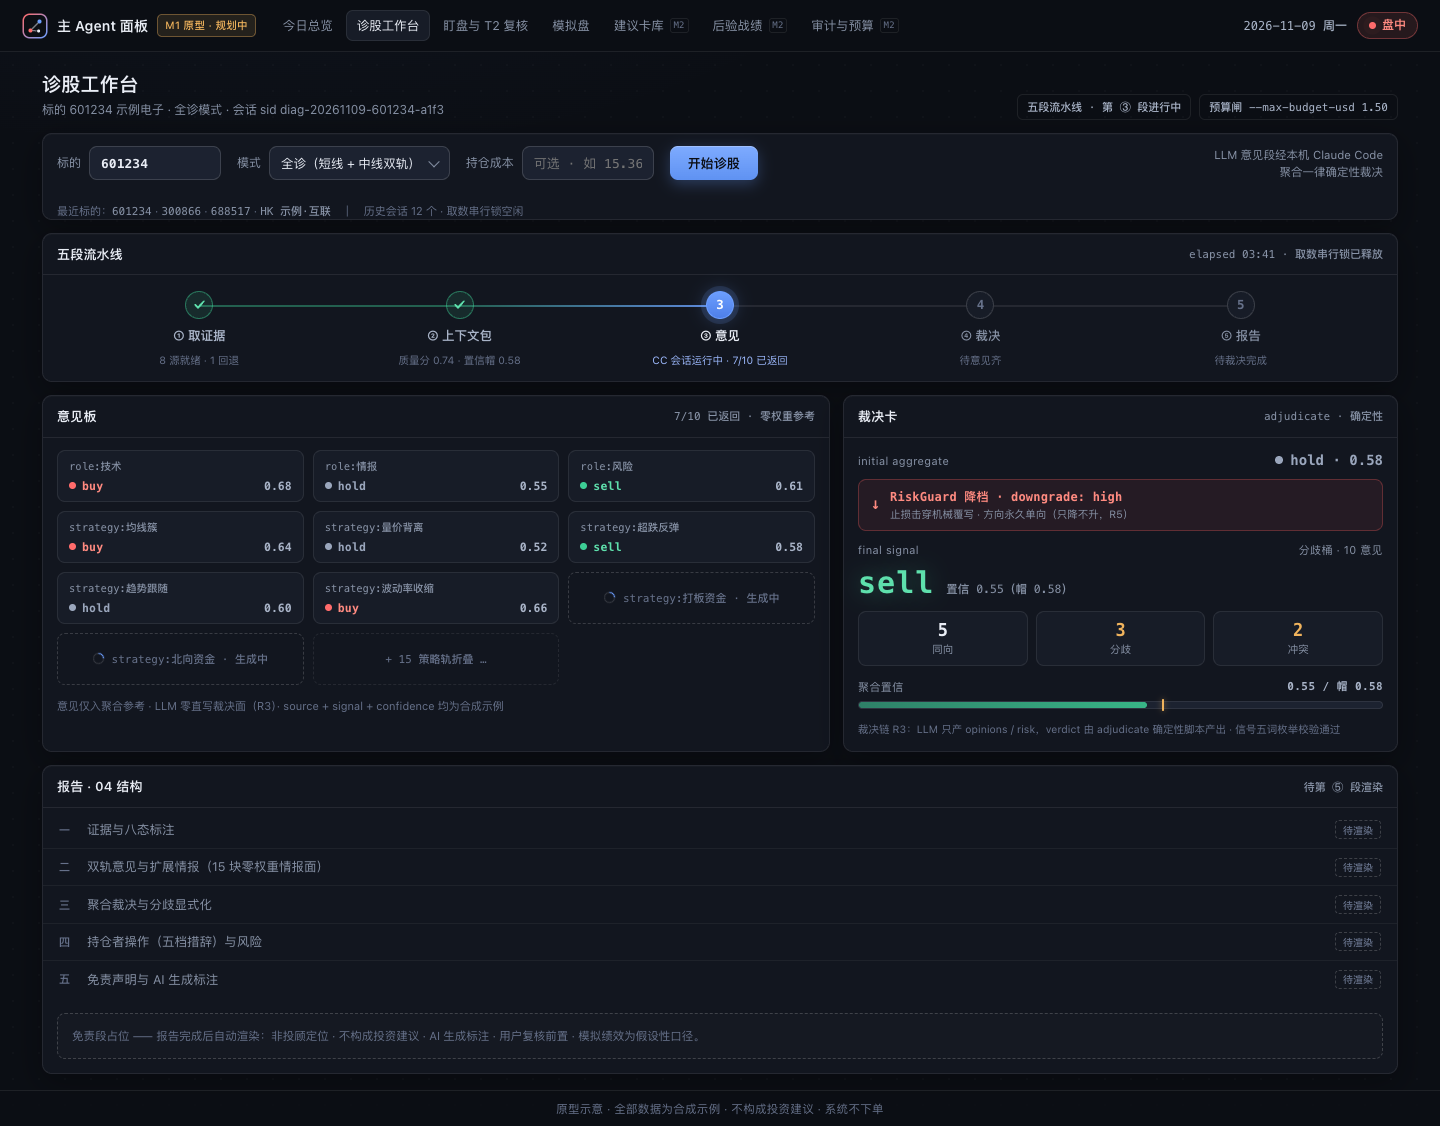
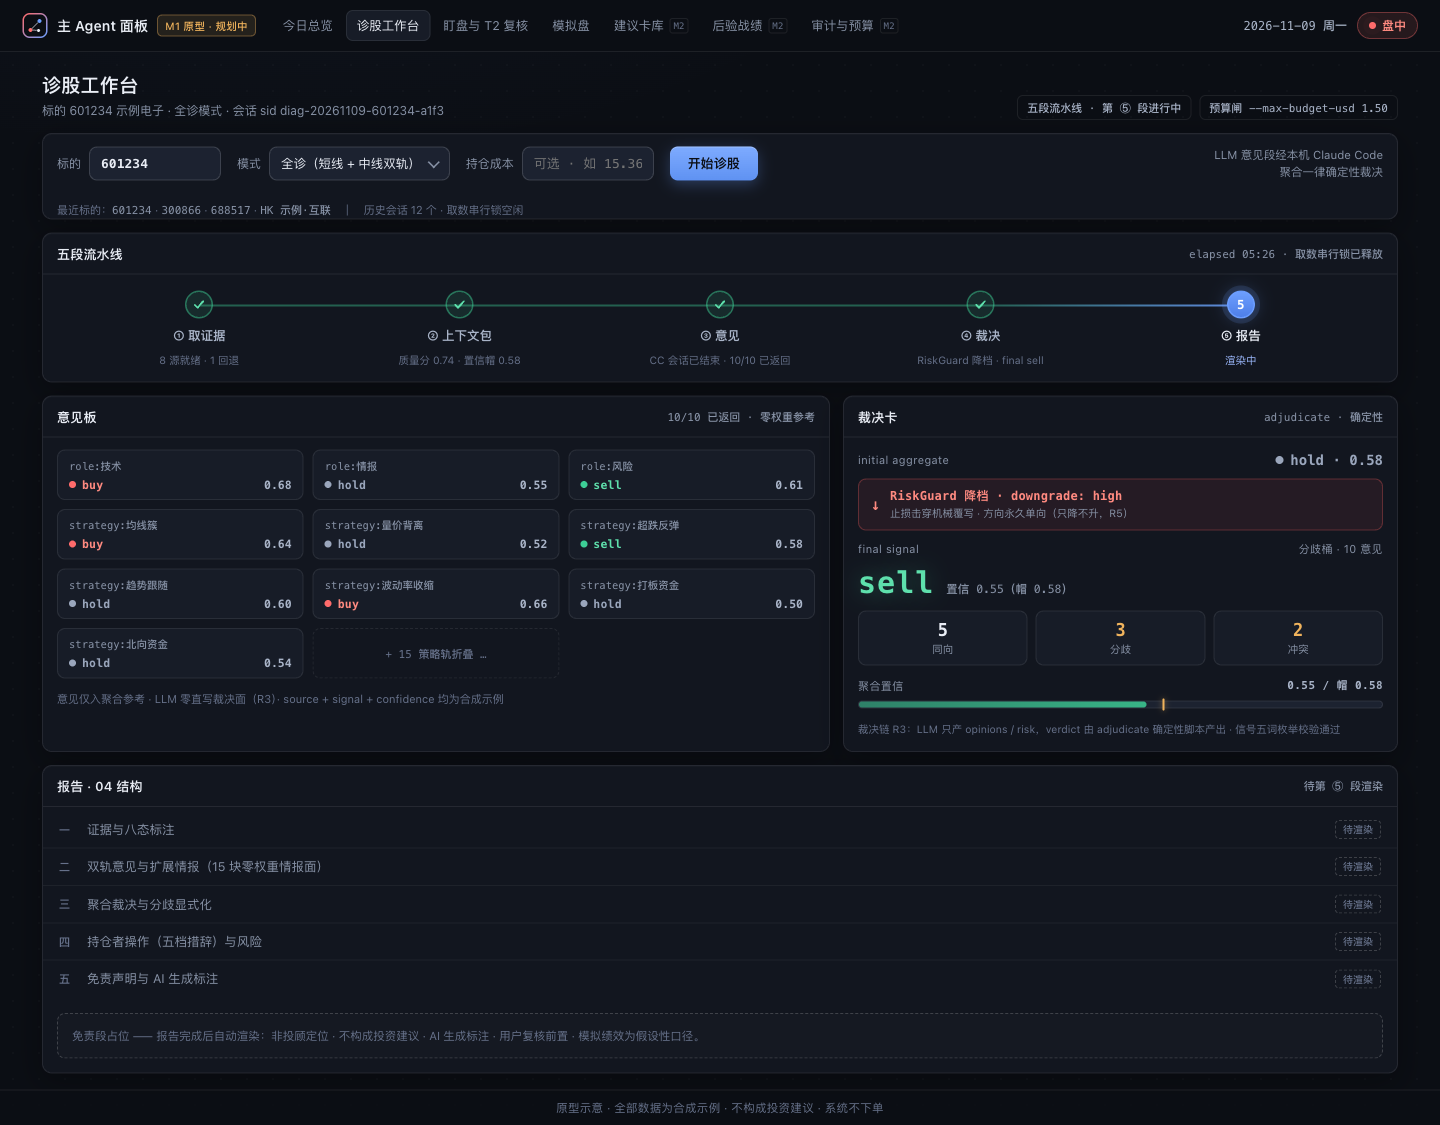
fix(Prototypes): 原型口径自洽：买入滑点加向、HK T3 状态一致、总览改盘中态、诊股推进至第 ⑤ 段 0.0.28;
paper：HK T3 确认价改为触发价 + 滑点（356.60），持仓表 T3 置 pending 与待确认队列一致；overview：页面态改盘中 10:08，事件时间移至 09:15 之后，昨日降档卡改为待收盘复核；diagnosis：流水线推进至 ⑤ 渲染中、意见板 10/10（同向 5/分歧 3/冲突 2 与意见分布吻合）；三张 PNG 以 1440 视口同口径重截；

🤖 Generated with [Claude Code](https://github.com/claude), [CodeX](https://openai.com), [Gemini](https://github.com/apps/gemini-code-assist)

diff --git a/docs/prototypes/main-agent/overview.html b/docs/prototypes/main-agent/overview.html
@@ -3,7 +3,7 @@
 <head>
 <meta charset="UTF-8">
 <meta name="viewport" content="width=1440">
-<title>主 Agent 面板 · 今日总览（盘前）</title>
+<title>主 Agent 面板 · 今日总览（盘中）</title>
 <style>
 *{margin:0;padding:0;box-sizing:border-box}
 :root{
@@ -36,9 +36,10 @@ body{min-height:100vh;display:flex;flex-direction:column;background-color:var(--
 .top-r{display:flex;align-items:center;gap:10px;white-space:nowrap}
 .date{font:500 12px var(--mono);color:var(--t2)}
 .phase{display:inline-flex;align-items:center;gap:6px;font-size:12px;font-weight:600;padding:3px 11px;border-radius:999px}
-.phase-pre{color:var(--warn);border:1px solid var(--warnln);background:var(--warnbg)}
+.phase-live{color:var(--up2);border:1px solid var(--upln);background:var(--upbg)}
 .pd{width:7px;height:7px;border-radius:50%}
-.pd-amber{background:var(--warn);box-shadow:0 0 8px rgba(240,179,92,.6)}
+.pd-live{background:var(--up);box-shadow:0 0 8px rgba(255,107,107,.7);animation:pu 2.2s ease-out infinite}
+@keyframes pu{0%{box-shadow:0 0 0 0 rgba(255,107,107,.4)}70%{box-shadow:0 0 0 6px rgba(255,107,107,0)}100%{box-shadow:0 0 8px rgba(255,107,107,.7)}}
 /* ── 布局 ── */
 main{width:100%;max-width:1400px;margin:0 auto;padding:18px 22px 16px;flex:1;display:flex;flex-direction:column;gap:13px}
 .hero{display:flex;align-items:flex-end;justify-content:space-between;gap:14px}
@@ -162,7 +163,7 @@ main{width:100%;max-width:1400px;margin:0 auto;padding:18px 22px 16px;flex:1;dis
   </nav>
   <div class="top-r">
     <span class="date">2026-11-09 周一</span>
-    <span class="phase phase-pre"><span class="pd pd-amber"></span>盘前</span>
+    <span class="phase phase-live"><span class="pd pd-live"></span>盘中</span>
   </div>
 </header>
 
@@ -170,10 +171,10 @@ main{width:100%;max-width:1400px;margin:0 auto;padding:18px 22px 16px;flex:1;dis
   <div class="hero">
     <div>
       <h1>今日总览</h1>
-      <div class="sub">盘前 08:52 · 事件 7 条（2 条降档高亮）· 盘后待办 3 项 · 本页为合成数据快照</div>
+      <div class="sub">盘中 10:08 · 事件 7 条（2 条降档高亮）· 盘后待办 3 项 · 本页为合成数据快照</div>
     </div>
     <div class="hero-r">
-      <span class="metachip">上次刷新 08:52:14 · 180s 轮询</span>
+      <span class="metachip">上次刷新 10:08:14 · 180s 轮询</span>
       <span class="metachip">CC 大脑 就绪</span>
     </div>
   </div>
@@ -184,52 +185,52 @@ main{width:100%;max-width:1400px;margin:0 auto;padding:18px 22px 16px;flex:1;dis
       <div class="card-h"><span class="ct">今日事件流</span><span class="cm">7 条 · 09:15 起接 monitor</span></div>
       <div class="card-b" style="padding:6px 8px">
         <div class="ev risk">
-          <div class="ev-time">08:12</div><div class="ev-rail"><span class="ev-dot"></span></div>
+          <div class="ev-time">09:18</div><div class="ev-rail"><span class="ev-dot"></span></div>
           <div>
             <div class="ev-top"><span class="ev-stock"><b>601234</b> 示例电子</span><span class="lv lv1">T1</span><span class="tag">止损复核</span></div>
             <div class="ev-name">止损击穿 · 15.82 &lt; 15.90<span class="riskchip">mech_risk high</span></div>
           </div>
         </div>
         <div class="ev risk">
-          <div class="ev-time">08:18</div><div class="ev-rail"><span class="ev-dot"></span></div>
+          <div class="ev-time">09:24</div><div class="ev-rail"><span class="ev-dot"></span></div>
           <div>
             <div class="ev-top"><span class="ev-stock"><b>000567</b> 示例消费</span><span class="lv lv1">T1</span><span class="tag">破位复核</span></div>
             <div class="ev-name">MA20 破位降档 buy → hold<span class="riskchip">mech_risk high</span></div>
           </div>
         </div>
         <div class="ev">
-          <div class="ev-time">08:25</div><div class="ev-rail"><span class="ev-dot"></span></div>
+          <div class="ev-time">09:31</div><div class="ev-rail"><span class="ev-dot"></span></div>
           <div>
             <div class="ev-top"><span class="ev-stock"><b>300866</b> 示例新能源</span><span class="lv lv2">T2</span><span class="tag">触价复核</span></div>
             <div class="ev-name">T2 限价批触价 · 模拟盘待逐笔确认</div>
           </div>
         </div>
         <div class="ev">
-          <div class="ev-time">08:31</div><div class="ev-rail"><span class="ev-dot"></span></div>
+          <div class="ev-time">09:36</div><div class="ev-rail"><span class="ev-dot"></span></div>
           <div>
-            <div class="ev-top"><span class="ev-stock"><b>HK 示例·互联</b></span><span class="lv lv0">T0</span><span class="tag">盘后复核</span></div>
-            <div class="ev-name">今日盘后业绩公告 · 收盘后补全诊证据</div>
+            <div class="ev-top"><span class="ev-stock"><b>HK 示例·互联</b></span><span class="lv lv0">T0</span><span class="tag">知情确认</span></div>
+            <div class="ev-name">11-13 盘后业绩公告临近 · 提前补全诊证据</div>
           </div>
         </div>
         <div class="ev">
-          <div class="ev-time">08:36</div><div class="ev-rail"><span class="ev-dot"></span></div>
+          <div class="ev-time">09:42</div><div class="ev-rail"><span class="ev-dot"></span></div>
           <div>
             <div class="ev-top"><span class="ev-stock"><b>688517</b> 示例半导体</span><span class="lv lv0">T0</span><span class="tag">知情确认</span></div>
             <div class="ev-name">11-11 解禁临近提示 · 2.1% 流通盘</div>
           </div>
         </div>
         <div class="ev">
-          <div class="ev-time">08:42</div><div class="ev-rail"><span class="ev-dot"></span></div>
+          <div class="ev-time">09:49</div><div class="ev-rail"><span class="ev-dot"></span></div>
           <div>
             <div class="ev-top"><span class="ev-stock"><b>601789</b> 示例医药</span><span class="lv lv2">T2</span><span class="tag">资格复核</span></div>
             <div class="ev-name">加仓轨资格冻结到期 · 待重估三道门</div>
           </div>
         </div>
         <div class="ev">
-          <div class="ev-time">08:47</div><div class="ev-rail"><span class="ev-dot"></span></div>
+          <div class="ev-time">09:55</div><div class="ev-rail"><span class="ev-dot"></span></div>
           <div>
             <div class="ev-top"><span class="ev-stock"><b>大盘</b> 市场级</span><span class="lv lv0">T0</span><span class="tag">无需复核</span></div>
-            <div class="ev-name">隔夜外盘与汇率快照已注入上下文包</div>
+            <div class="ev-name">盘中指数与汇率快照已注入上下文包</div>
           </div>
         </div>
       </div>
@@ -316,7 +317,7 @@ main{width:100%;max-width:1400px;margin:0 auto;padding:18px 22px 16px;flex:1;dis
             <span class="sys-st st-wait"><span class="sdot sdot-wait"></span>待触发</span>
           </div>
           <div class="sys-row">
-            <div class="sys-l"><span class="sys-name">CC 大脑</span><span class="sys-desc">claude headless · 探针 08:50 ok</span></div><span class="sys-sched">—</span>
+            <div class="sys-l"><span class="sys-name">CC 大脑</span><span class="sys-desc">claude headless · 探针 09:12 ok</span></div><span class="sys-sched">—</span>
             <span class="sys-st st-ok"><span class="sdot sdot-ok"></span>就绪</span>
           </div>
         </div>
@@ -350,8 +351,8 @@ main{width:100%;max-width:1400px;margin:0 auto;padding:18px 22px 16px;flex:1;dis
       <div class="cal-r"><span class="cd">11-13 盘后</span><span>HK 示例·互联 · 业绩公告</span></div>
     </div>
     <div class="dawn-sec warn-sec">
-      <div class="dawn-t">昨日未处理降档事件</div>
-      <div class="warnlist">2 条 mech_risk 降档待盘前复核：<b>601234</b> 止损击穿 · <b>000567</b> 破位降档</div>
+      <div class="dawn-t">待收盘复核降档事件</div>
+      <div class="warnlist">2 条 mech_risk 降档待收盘复核（R9）：<b>601234</b> 止损击穿 · <b>000567</b> 破位降档</div>
       <span class="go">去处理 →</span>
     </div>
   </section>

diff --git a/docs/prototypes/main-agent/diagnosis.html b/docs/prototypes/main-agent/diagnosis.html
@@ -177,7 +177,7 @@ main{width:100%;max-width:1400px;margin:0 auto;padding:18px 22px 16px;flex:1;dis
       <div class="sub">标的 601234 示例电子 · 全诊模式 · 会话 sid diag-20261109-601234-a1f3</div>
     </div>
     <div class="hero-r">
-      <span class="metachip">五段流水线 · 第 ③ 段进行中</span>
+      <span class="metachip">五段流水线 · 第 ⑤ 段进行中</span>
       <span class="metachip">预算闸 --max-budget-usd 1.50</span>
     </div>
   </div>
@@ -198,7 +198,7 @@ main{width:100%;max-width:1400px;margin:0 auto;padding:18px 22px 16px;flex:1;dis
 
   <!-- 五段流水线 -->
   <section class="card">
-    <div class="card-h"><span class="ct">五段流水线</span><span class="cm">elapsed 03:41 · 取数串行锁已释放</span></div>
+    <div class="card-h"><span class="ct">五段流水线</span><span class="cm">elapsed 05:26 · 取数串行锁已释放</span></div>
     <div class="pipe">
       <div class="step done">
         <div class="sc"><svg width="13" height="13" viewBox="0 0 14 14" fill="none"><path d="M2.5 7.5L5.5 10.5L11.5 3.5" stroke="#5EE0AC" stroke-width="2" stroke-linecap="round" stroke-linejoin="round"/></svg></div>
@@ -208,17 +208,17 @@ main{width:100%;max-width:1400px;margin:0 auto;padding:18px 22px 16px;flex:1;dis
         <div class="sc"><svg width="13" height="13" viewBox="0 0 14 14" fill="none"><path d="M2.5 7.5L5.5 10.5L11.5 3.5" stroke="#5EE0AC" stroke-width="2" stroke-linecap="round" stroke-linejoin="round"/></svg></div>
         <div class="sl">② 上下文包</div><div class="ss">质量分 0.74 · 置信帽 0.58</div>
       </div>
+      <div class="step done">
+        <div class="sc"><svg width="13" height="13" viewBox="0 0 14 14" fill="none"><path d="M2.5 7.5L5.5 10.5L11.5 3.5" stroke="#5EE0AC" stroke-width="2" stroke-linecap="round" stroke-linejoin="round"/></svg></div>
+        <div class="sl">③ 意见</div><div class="ss">CC 会话已结束 · 10/10 已返回</div>
+      </div>
+      <div class="step done">
+        <div class="sc"><svg width="13" height="13" viewBox="0 0 14 14" fill="none"><path d="M2.5 7.5L5.5 10.5L11.5 3.5" stroke="#5EE0AC" stroke-width="2" stroke-linecap="round" stroke-linejoin="round"/></svg></div>
+        <div class="sl">④ 裁决</div><div class="ss">RiskGuard 降档 · final sell</div>
+      </div>
       <div class="step cur">
-        <div class="sc">3</div>
-        <div class="sl">③ 意见</div><div class="ss">CC 会话运行中 · 7/10 已返回</div>
-      </div>
-      <div class="step pend">
-        <div class="sc">4</div>
-        <div class="sl">④ 裁决</div><div class="ss">待意见齐</div>
-      </div>
-      <div class="step pend">
         <div class="sc">5</div>
-        <div class="sl">⑤ 报告</div><div class="ss">待裁决完成</div>
+        <div class="sl">⑤ 报告</div><div class="ss">渲染中</div>
       </div>
     </div>
   </section>
@@ -226,7 +226,7 @@ main{width:100%;max-width:1400px;margin:0 auto;padding:18px 22px 16px;flex:1;dis
   <div class="split">
     <!-- 意见板 -->
     <section class="card">
-      <div class="card-h"><span class="ct">意见板</span><span class="cm">7/10 已返回 · 零权重参考</span></div>
+      <div class="card-h"><span class="ct">意见板</span><span class="cm">10/10 已返回 · 零权重参考</span></div>
       <div class="opins">
         <div class="op"><div class="op-src">role:技术</div><div class="op-row"><span class="sig sig-b"><span class="d"></span>buy</span><span class="op-conf">0.68</span></div></div>
         <div class="op"><div class="op-src">role:情报</div><div class="op-row"><span class="sig sig-h"><span class="d"></span>hold</span><span class="op-conf">0.55</span></div></div>
@@ -236,8 +236,8 @@ main{width:100%;max-width:1400px;margin:0 auto;padding:18px 22px 16px;flex:1;dis
         <div class="op"><div class="op-src">strategy:超跌反弹</div><div class="op-row"><span class="sig sig-s"><span class="d"></span>sell</span><span class="op-conf">0.58</span></div></div>
         <div class="op"><div class="op-src">strategy:趋势跟随</div><div class="op-row"><span class="sig sig-h"><span class="d"></span>hold</span><span class="op-conf">0.60</span></div></div>
         <div class="op"><div class="op-src">strategy:波动率收缩</div><div class="op-row"><span class="sig sig-b"><span class="d"></span>buy</span><span class="op-conf">0.66</span></div></div>
-        <div class="op loading"><div class="op-load-tx"><span class="spin"></span>strategy:打板资金 · 生成中</div></div>
-        <div class="op loading"><div class="op-load-tx"><span class="spin"></span>strategy:北向资金 · 生成中</div></div>
+        <div class="op"><div class="op-src">strategy:打板资金</div><div class="op-row"><span class="sig sig-h"><span class="d"></span>hold</span><span class="op-conf">0.50</span></div></div>
+        <div class="op"><div class="op-src">strategy:北向资金</div><div class="op-row"><span class="sig sig-h"><span class="d"></span>hold</span><span class="op-conf">0.54</span></div></div>
         <div class="op" style="grid-column:span 1;border-style:dashed;background:transparent;display:flex;align-items:center;justify-content:center">
           <div class="op-load-tx" style="color:var(--t4)">+ 15 策略轨折叠 …</div>
         </div>

diff --git a/docs/prototypes/main-agent/paper.html b/docs/prototypes/main-agent/paper.html
@@ -193,7 +193,7 @@ tr.open td:first-child{box-shadow:inset 4px 0 0 #F0B35C,0 0 10px rgba(240,179,92
           <tr>
             <td class="code">HK 示例·互联</td><td>互联网平台</td>
             <td><span class="st st-hold"><span class="d"></span>持有</span></td>
-            <td><span class="legs"><span class="leg filled"><i>T1</i>filled</span><span class="leg filled"><i>T2</i>filled</span><span class="leg expired"><i>T3</i>expired</span></span></td>
+            <td><span class="legs"><span class="leg filled"><i>T1</i>filled</span><span class="leg filled"><i>T2</i>filled</span><span class="leg pending"><i>T3</i>pending</span></span></td>
             <td class="num">400</td><td class="num">352.0</td><td class="num">386.2</td><td class="num pf">+9.72%</td>
           </tr>
           <tr>
@@ -233,7 +233,7 @@ tr.open td:first-child{box-shadow:inset 4px 0 0 #F0B35C,0 0 10px rgba(240,179,92
             <span class="fill-code">HK 示例·互联</span><span class="fill-name">互联网平台</span>
             <span class="fill-leg leg pending"><i>T3</i>确认批</span>
           </div>
-          <div class="fill-det">确认价 <b>355.40</b> = 触发价 356.0 − 滑点 0.6　·　<b>2 手 × 200 股</b>　·　触发 13:37</div>
+          <div class="fill-det">确认价 <b>356.60</b> = 触发价 356.0 + 滑点 0.6　·　<b>2 手 × 200 股</b>　·　触发 13:37</div>
           <div class="fill-act">
             <button class="btn btn-ok">确认成交</button>
             <button class="btn btn-no">驳回</button>
